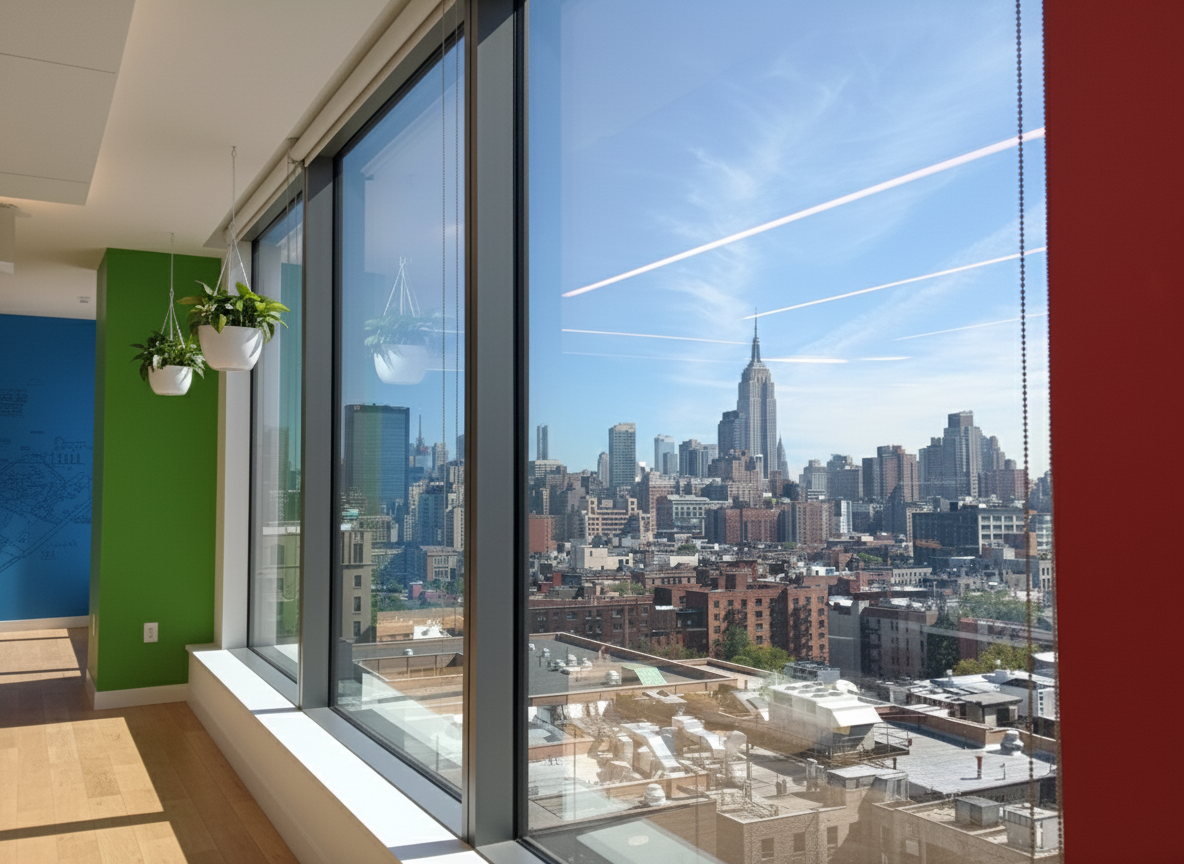
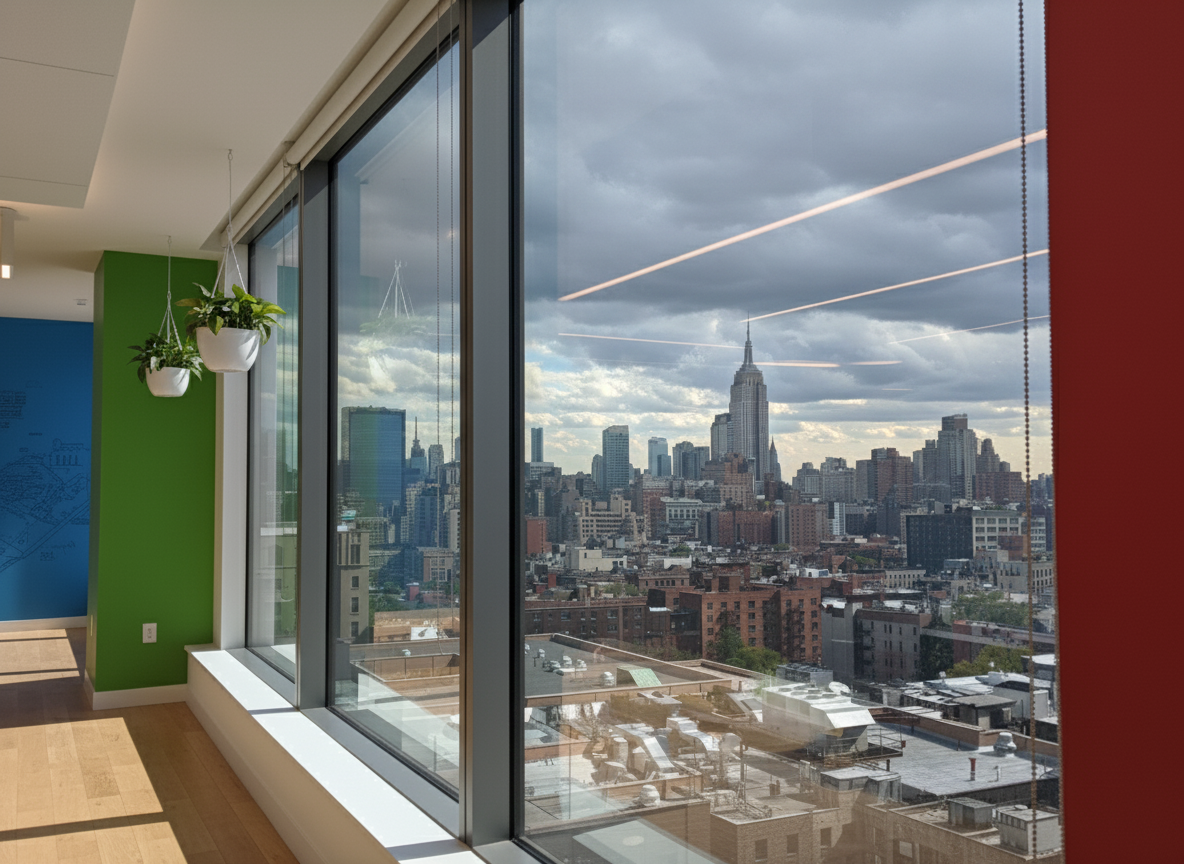
Update current virtual office image

diff --git a/index.html b/index.html
@@ -33,7 +33,7 @@
   </style>
 </head>
 <body>
-  <img src="./virtual-office-current.png" alt="Current virtual office weather image">
-  <div class="stamp">Last updated: 2026-04-17 10:25 PDT</div>
+  <img src="./virtual-office-current.png?v=1776446815" alt="Current virtual office weather image">
+  <div class="stamp">Last updated: 2026-04-17 10:26 PDT</div>
 </body>
 </html>
